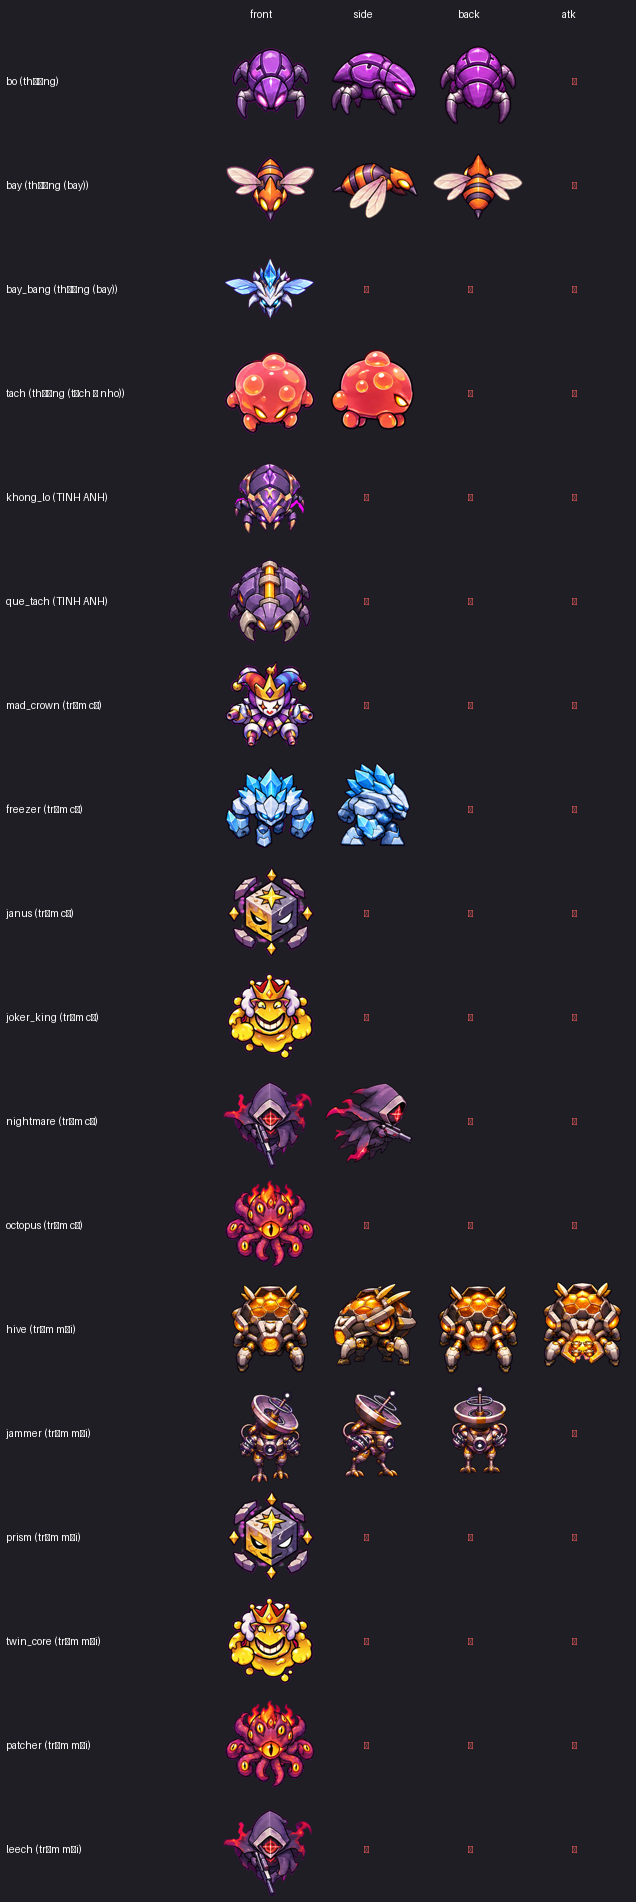
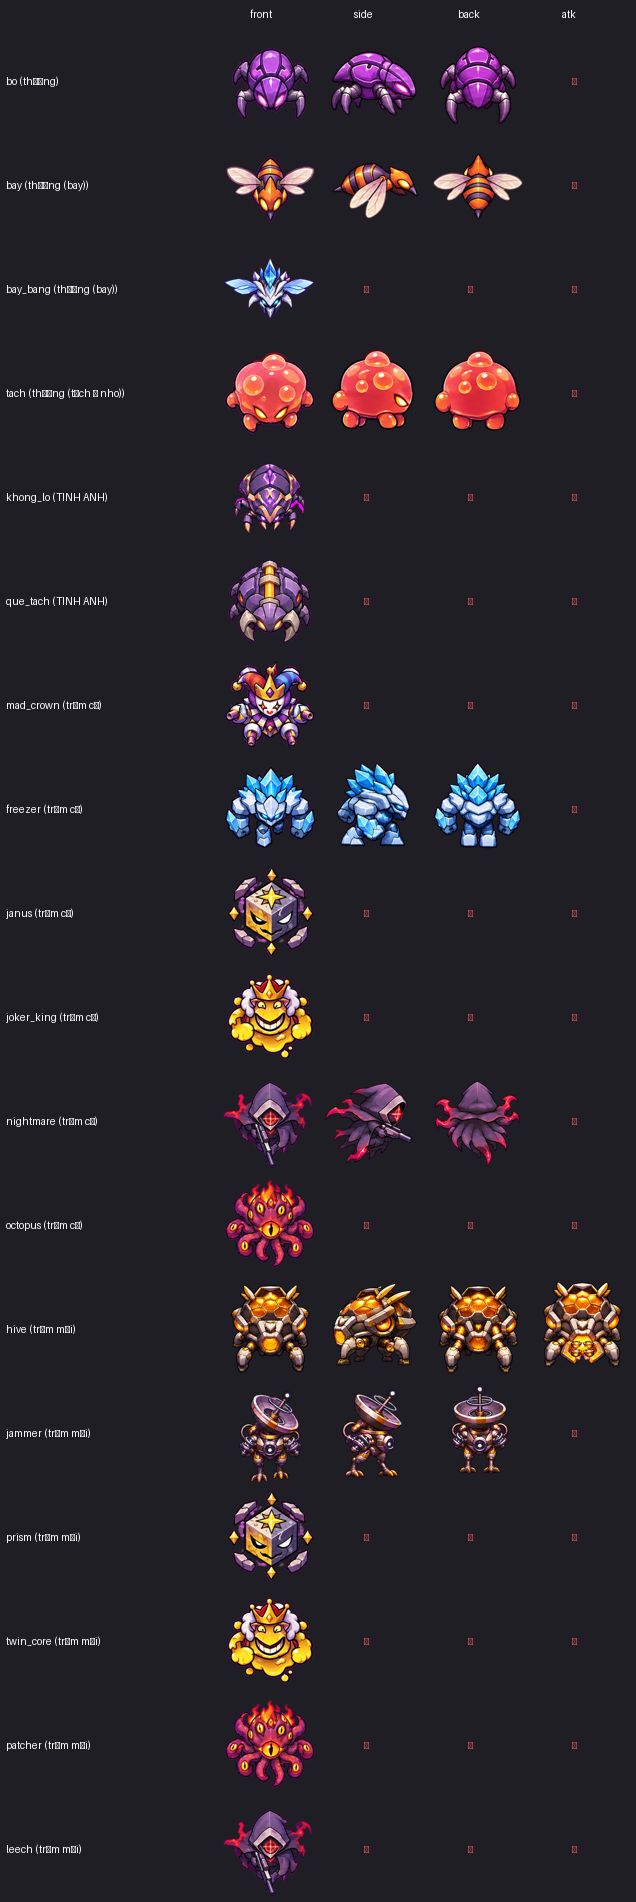
thap huong3: rap freezer sau, nightmare sau, tach sau (raw_p12)
Claude-Session: https://claude.ai/code/session_016VkJ26f22ubevy4EnREsEV

Changed region(s): [[0.6871, 0.5584, 0.8066, 0.6204], [0.6871, 0.1861, 0.8365, 0.2482], [0.6871, 0.4033, 0.8066, 0.4653]]

diff --git a/thap/js/quaianim.js b/thap/js/quaianim.js
@@ -14,7 +14,7 @@ const K8 = { bo: 0.755, bay: 0.82, bay_bang: 0.92, khong_lo: 1.46, tach: 0.85, q
   freezer: 1.06, janus: 1.02, joker_king: 1.07, mad_crown: 1.03, nightmare: 1.02, octopus: 1.09 }; // trùm: id = E.id
 const TRUM8 = new Set(['freezer', 'mad_crown', 'nightmare', 'octopus', 'janus', 'joker_king']);
 // HƯỚNG NHÌN (Pass 5): dải 8 khung NGANG (đi sang phải; trái = lật) / SAU (đi lên) đã có trong assets/ — tools/thap-huong-quai.py tự cập nhật dòng dưới
-const HUONG8 = new Set(['quai_bay_back', 'quai_bay_side', 'quai_bo_back', 'quai_bo_side', 'quai_tach_side', 'trum_freezer_side', 'trum_hive_back', 'trum_hive_side', 'trum_jammer_back', 'trum_jammer_side', 'trum_nightmare_side']); // vd 'quai_bo_side', 'trum_octopus_back'
+const HUONG8 = new Set(['quai_bay_back', 'quai_bay_side', 'quai_bo_back', 'quai_bo_side', 'quai_tach_back', 'quai_tach_side', 'trum_freezer_back', 'trum_freezer_side', 'trum_hive_back', 'trum_hive_side', 'trum_jammer_back', 'trum_jammer_side', 'trum_nightmare_back', 'trum_nightmare_side']); // vd 'quai_bo_side', 'trum_octopus_back'
 const HUONG_NGHIENG = 0.139; // dải chưa có: dùng dải TRƯỚC nghiêng ≤ 8° về phía đi
 const HUONG_HOA = 0.12;      // hoà 120 ms khi đổi hướng nhìn ở khúc rẽ
 

diff --git a/docs/demo-hop-tuong/tuvan/huong3/BANG.md b/docs/demo-hop-tuong/tuvan/huong3/BANG.md
@@ -7,14 +7,14 @@
 | bo | thường | ✅ | ✅ | ⇋ | ✅ | không có chiêu |
 | bay | thường (bay) | ✅ | ✅ | ⇋ | ✅ | không có chiêu |
 | bay_bang | thường (bay) | ✅ | ⏳ ↔ | ↔ | ⏳ ↔ | không có chiêu |
-| tach | thường (tách → nho) | ✅ | ✅ | ⇋ | ⏳ ↔ | không có chiêu |
+| tach | thường (tách → nho) | ✅ | ✅ | ⇋ | ✅ | không có chiêu |
 | khong_lo | TINH ANH | ✅ | ⏳ ↔ | ↔ | ⏳ ↔ | không có chiêu |
 | que_tach | TINH ANH | ✅ | ⏳ ↔ | ↔ | ⏳ ↔ | không có chiêu |
 | mad_crown | trùm cũ | ✅ | ⏳ ↔ | ↔ | ⏳ ↔ | ✅ khung 3 (dải 4 cũ) |
-| freezer | trùm cũ | ✅ | ✅ | ⇋ | ⏳ ↔ | ✅ khung 3 (dải 4 cũ) |
+| freezer | trùm cũ | ✅ | ✅ | ⇋ | ✅ | ✅ khung 3 (dải 4 cũ) |
 | janus | trùm cũ | ✅ | ⏳ ↔ | ↔ | ⏳ ↔ | ✅ khung 3 (dải 4 cũ) |
 | joker_king | trùm cũ | ✅ | ⏳ ↔ | ↔ | ⏳ ↔ | ✅ khung 3 (dải 4 cũ) |
-| nightmare | trùm cũ | ✅ | ✅ | ⇋ | ⏳ ↔ | ✅ khung 3 (dải 4 cũ) |
+| nightmare | trùm cũ | ✅ | ✅ | ⇋ | ✅ | ✅ khung 3 (dải 4 cũ) |
 | octopus | trùm cũ | ✅ | ⏳ ↔ | ↔ | ⏳ ↔ | ✅ khung 3 (dải 4 cũ) |
 | hive | trùm mới | ✅ | ✅ | ⇋ | ✅ | ✅ dải 16 |
 | jammer | trùm mới | ✅ | ✅ | ⇋ | ✅ | ⏳ (q_p6 fx) |
